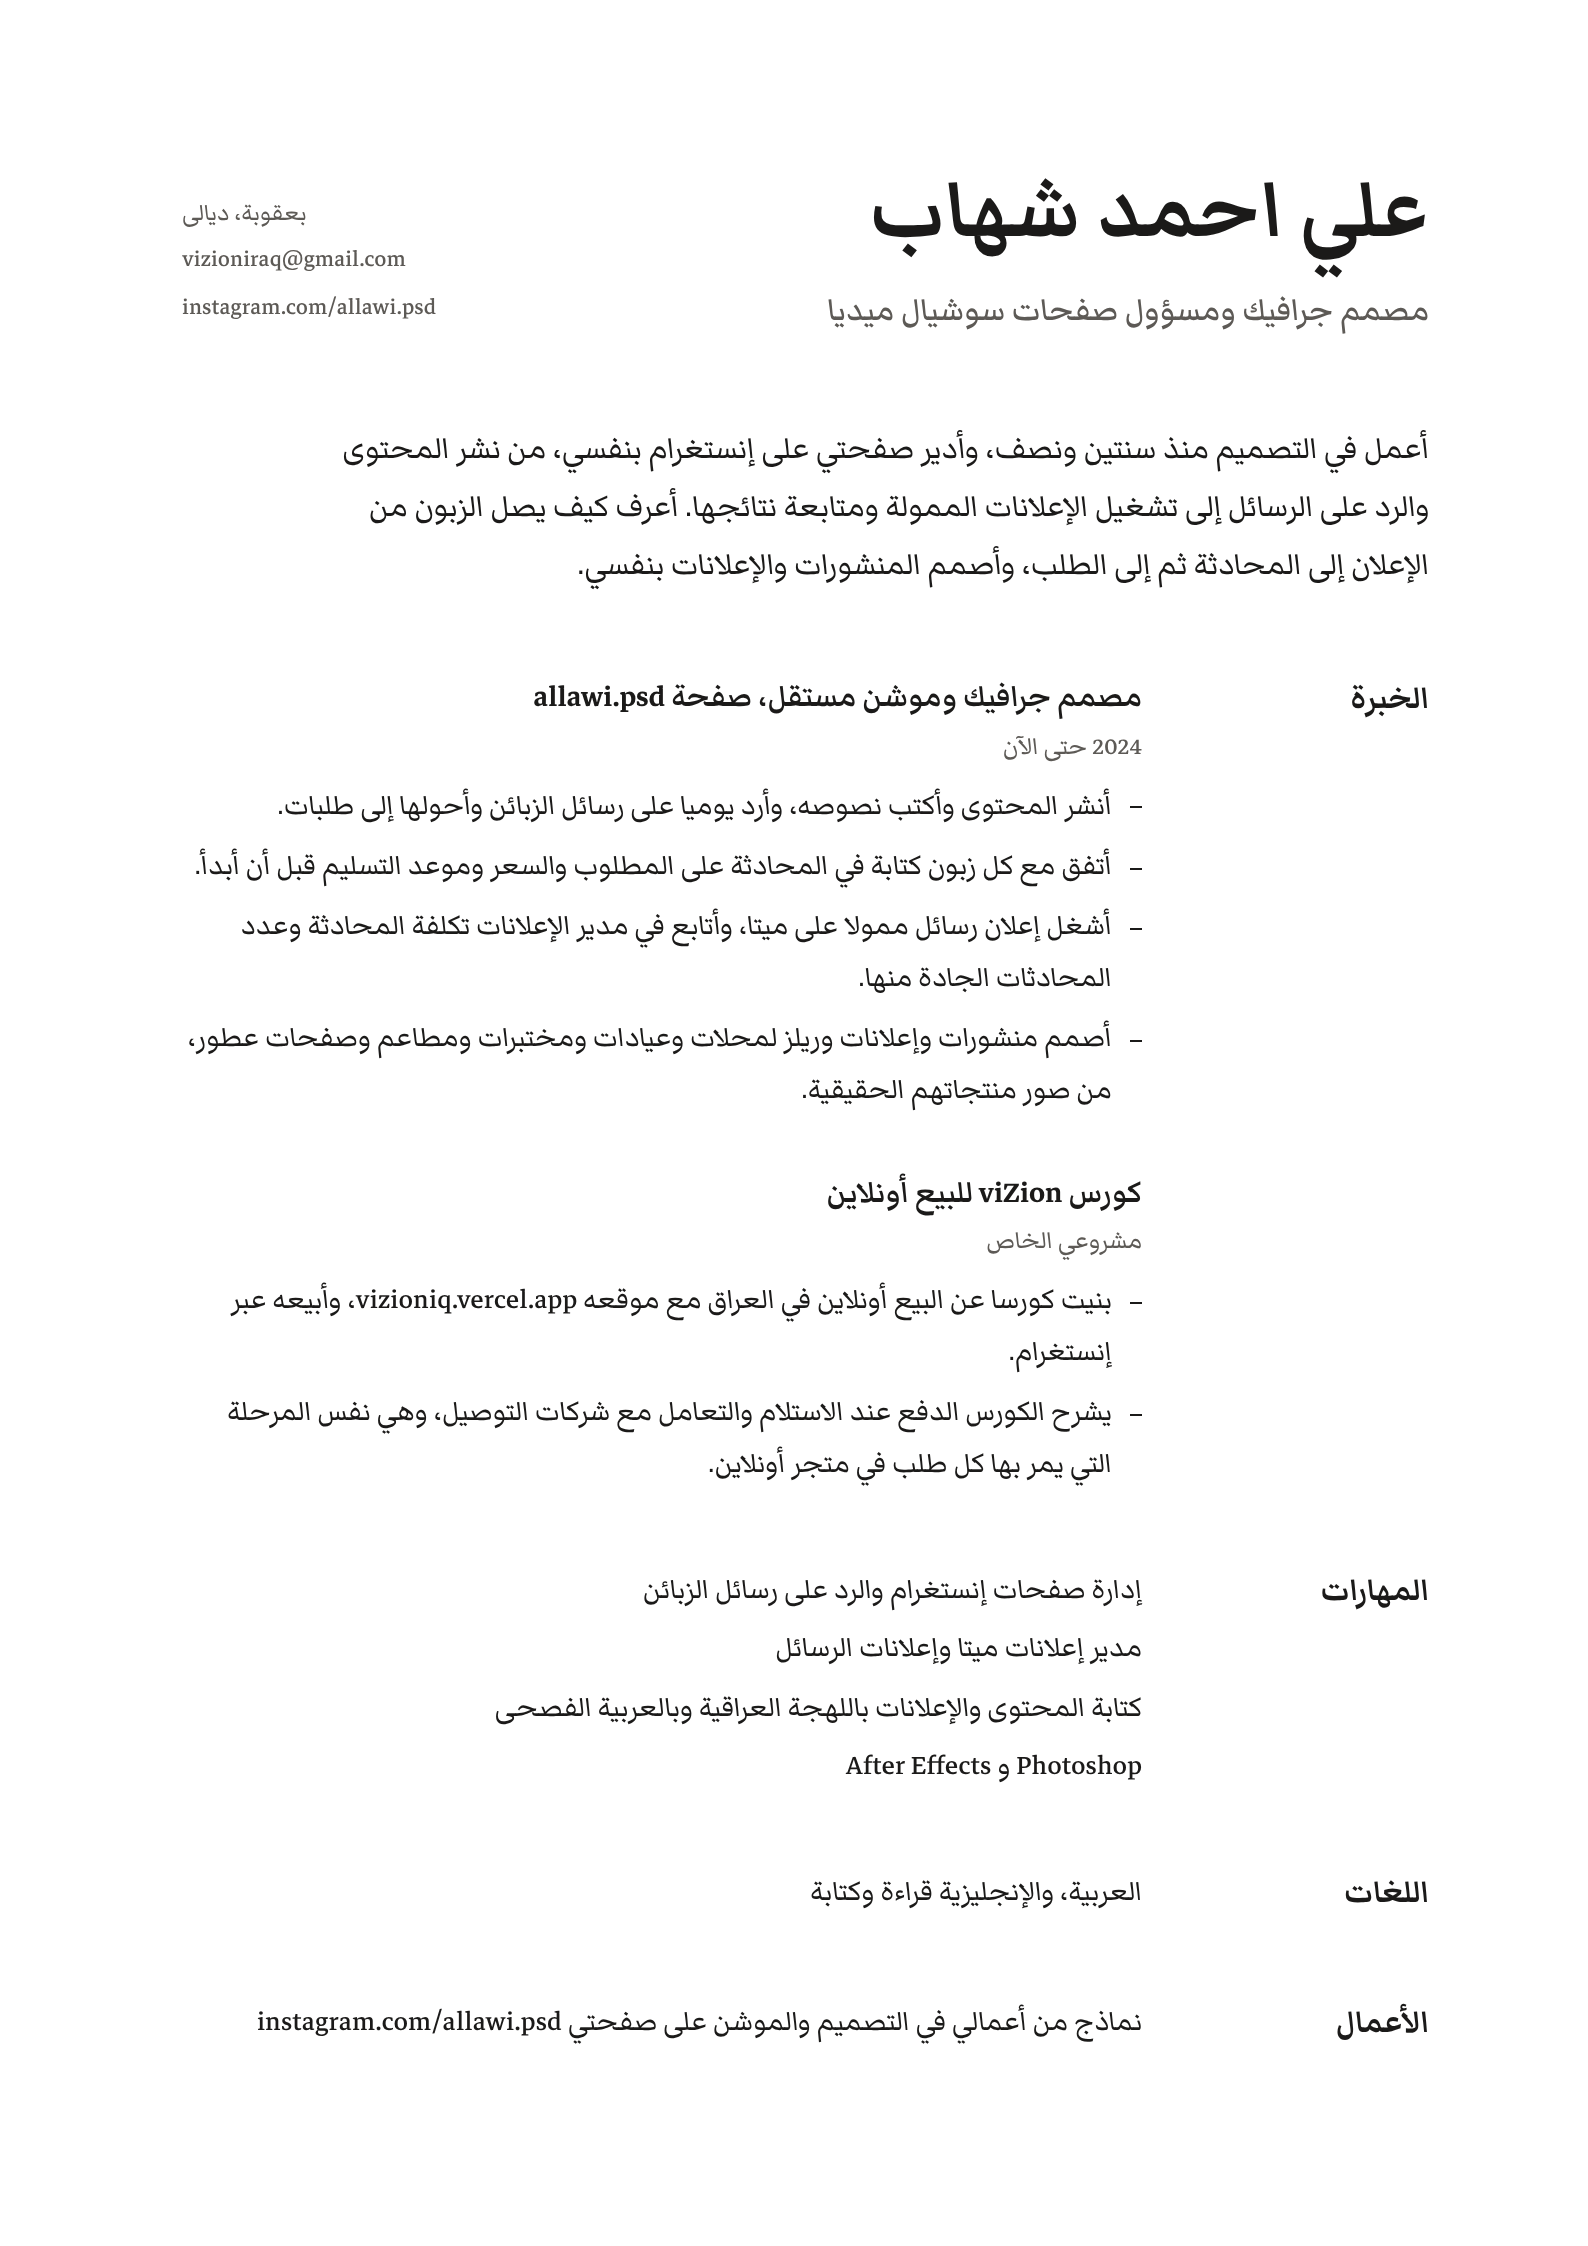
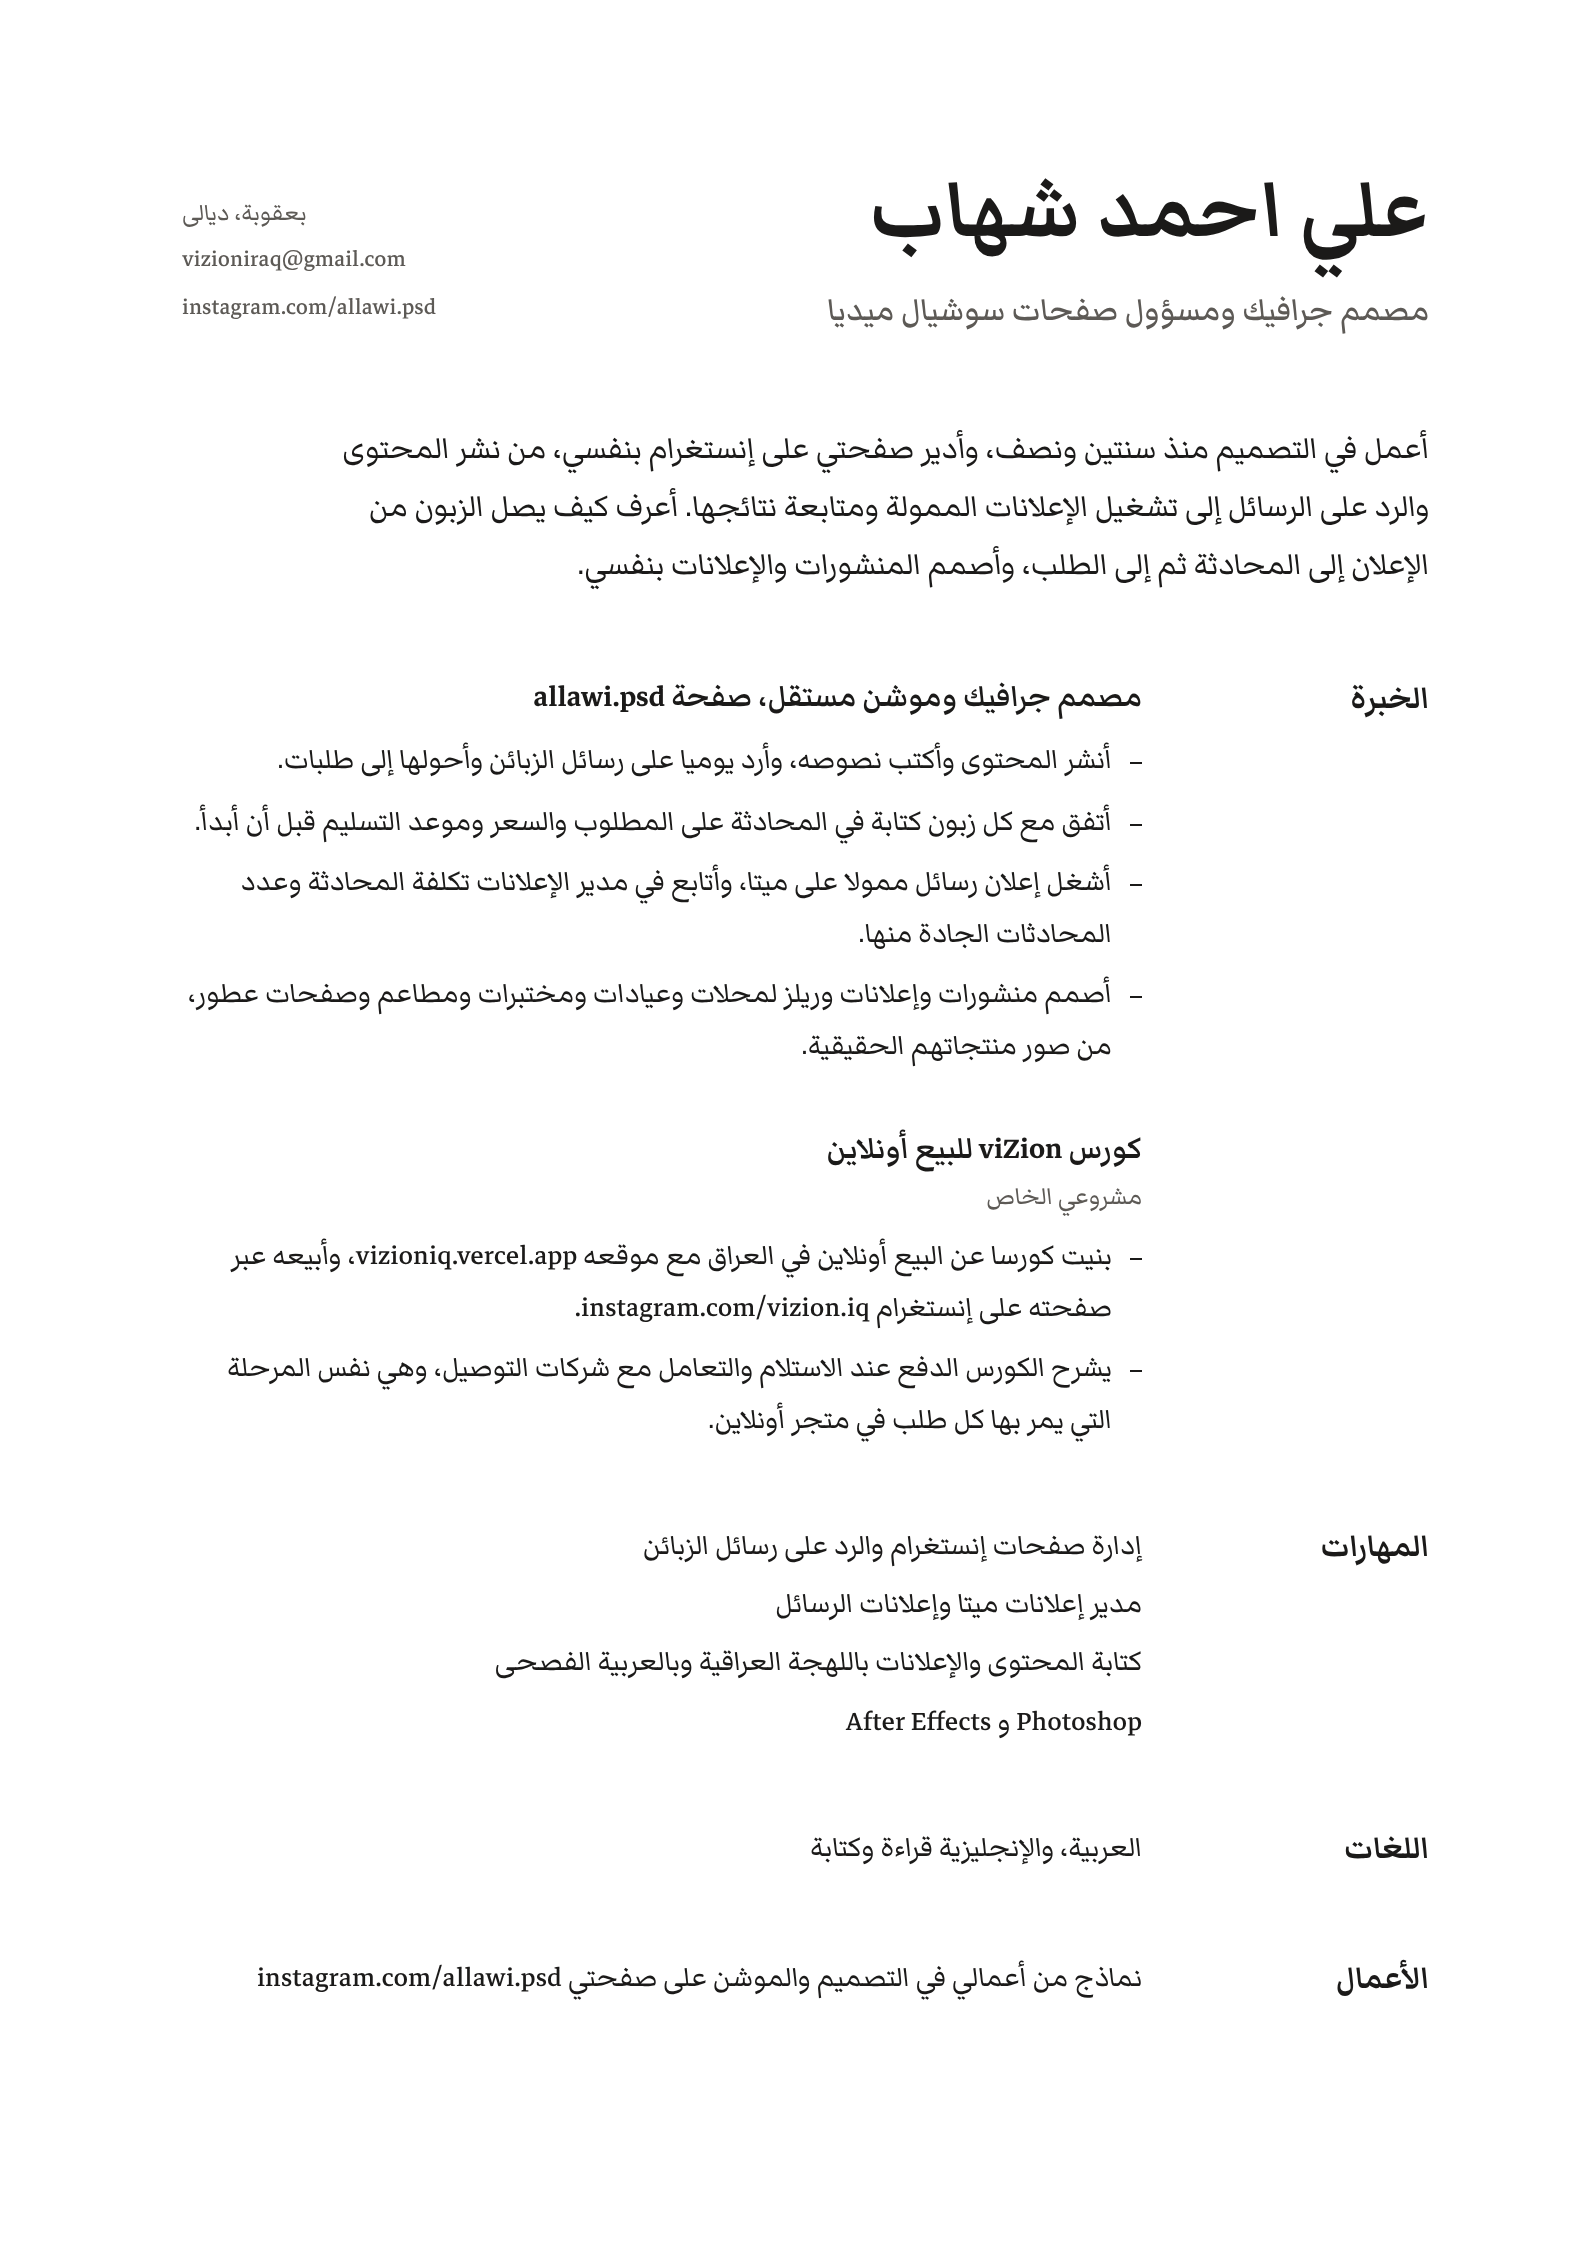
CV: add the viZion Instagram page, drop the start year

diff --git a/marketing/cv-pixl-store/cv.html b/marketing/cv-pixl-store/cv.html
@@ -57,7 +57,6 @@
     <div>
       <div class="job">
         <h3>مصمم جرافيك وموشن مستقل، صفحة allawi.psd</h3>
-        <div class="when">2024 حتى الآن</div>
         <ul>
           <li>أنشر المحتوى وأكتب نصوصه، وأرد يوميا على رسائل الزبائن وأحولها إلى طلبات.</li>
           <li>أتفق مع كل زبون كتابة في المحادثة على المطلوب والسعر وموعد التسليم قبل أن أبدأ.</li>
@@ -69,7 +68,7 @@
         <h3>كورس viZion للبيع أونلاين</h3>
         <div class="when">مشروعي الخاص</div>
         <ul>
-          <li>بنيت كورسا عن البيع أونلاين في العراق مع موقعه <span class="ltr">vizioniq.vercel.app</span>، وأبيعه عبر إنستغرام.</li>
+          <li>بنيت كورسا عن البيع أونلاين في العراق مع موقعه <span class="ltr">vizioniq.vercel.app</span>، وأبيعه عبر صفحته على إنستغرام <span class="ltr">instagram.com/vizion.iq</span>.</li>
           <li>يشرح الكورس الدفع عند الاستلام والتعامل مع شركات التوصيل، وهي نفس المرحلة التي يمر بها كل طلب في متجر أونلاين.</li>
         </ul>
       </div>
